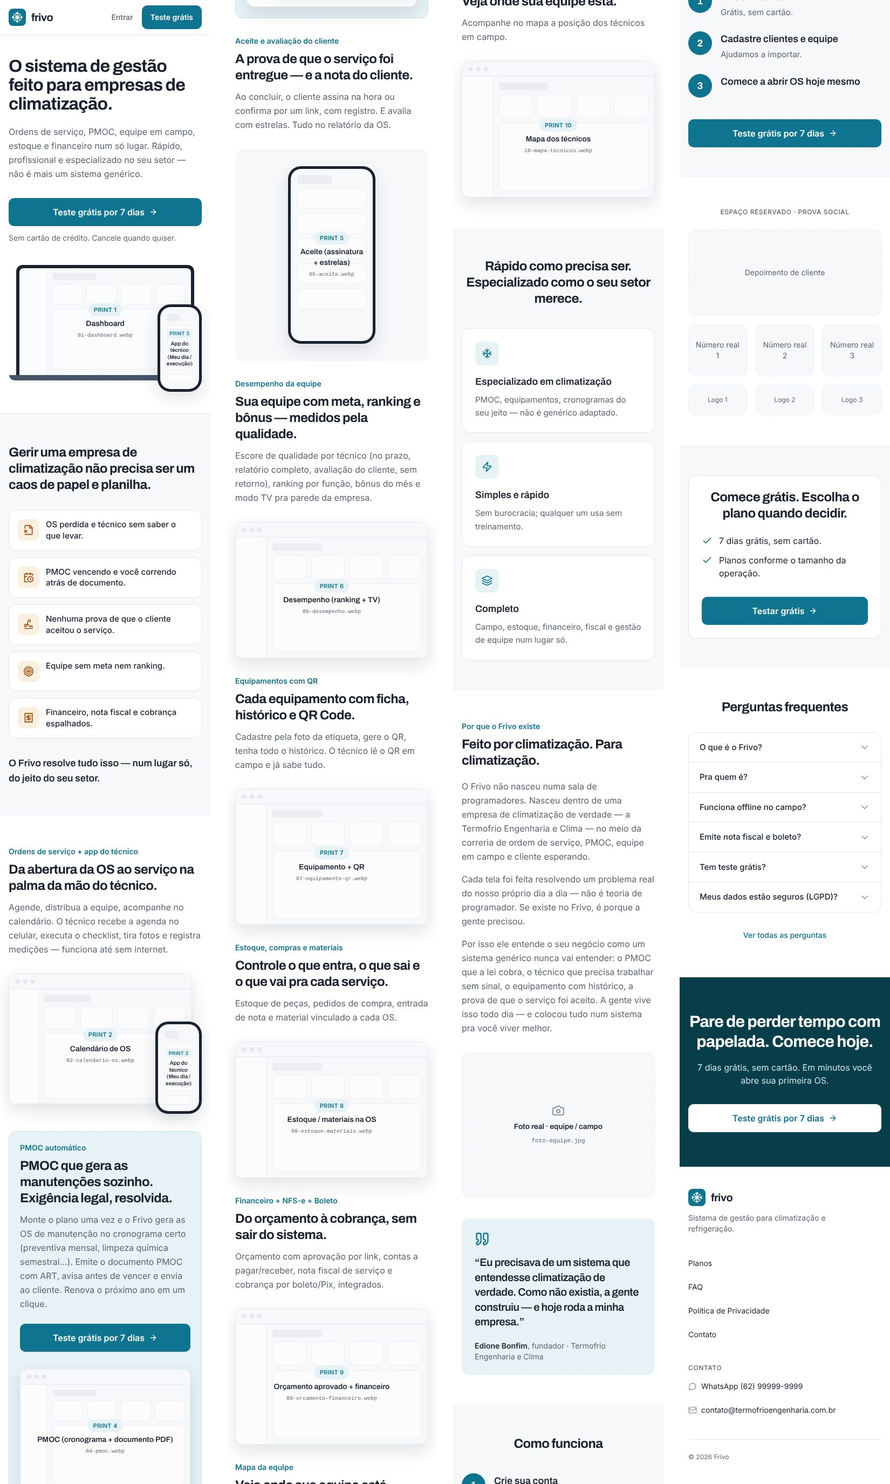
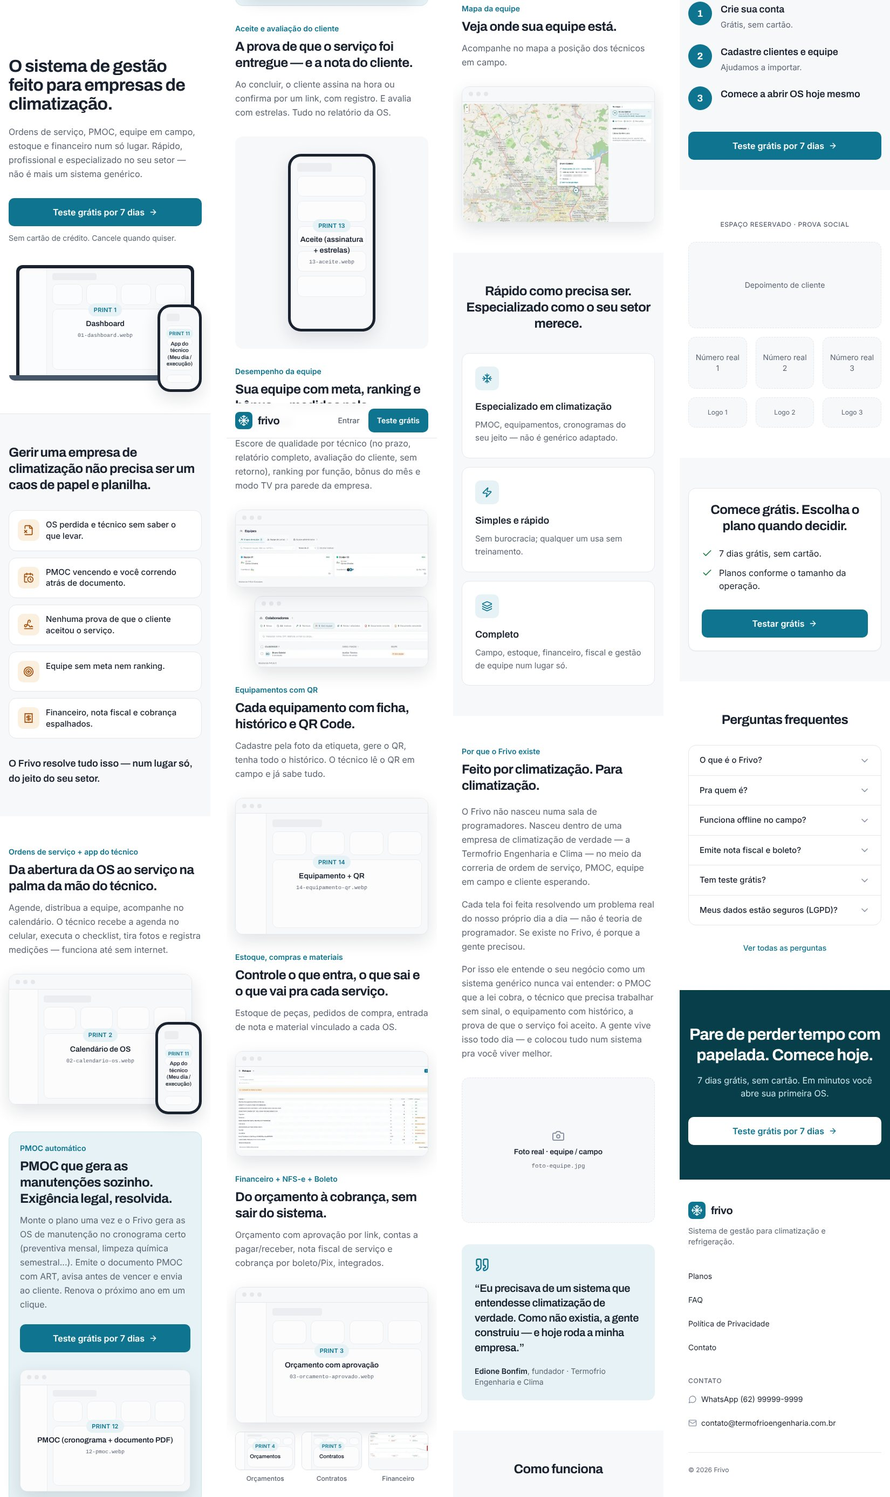
Home de vendas: telas reais do sistema (06 a 10) e nova numeração dos prints
- prints renumerados na ordem enviada: 01 dashboard, 02 calendário,
  03 orçamento com aprovação, 04 orçamentos, 05 contratos, 06 estoque,
  07 mapa, 08 equipes, 09 colaboradores, 10 financeiro; as telas do
  briefing ainda não enviadas viram 11 a 14 (app do técnico, PMOC,
  aceite, equipamento + QR)
- entram como imagem real: estoque, mapa, equipes, colaboradores e
  financeiro; 01 a 05 seguem como espaço reservado até o arquivo chegar
- 03 (orçamento aprovado) e 07 (mapa) com o print em destaque: coluna
  larga no bloco
- financeiro: 03 como print principal e 04, 05 e 10 em miniaturas com
  legenda; desempenho da equipe: 08 e 09, um abaixo do outro
- telas recortadas só na área de conteúdo (sem barra lateral e sem a
  barra do topo com o e-mail do usuário); 09 sem a coluna Contato e 07
  com a coordenada do técnico borrada
- moldura segue a proporção do recorte (proporcao no print)

Claude-Session: https://claude.ai/code/session_01HN9DuseGQK6JpnXFJzsGDY

diff --git a/components/marketing/conteudo.ts b/components/marketing/conteudo.ts
@@ -43,7 +43,7 @@ export const SEO = {
 
 export type FormatoPrint = "desktop" | "celular";
 export interface Print {
-  /** Número na lista do briefing (1 a 10). */
+  /** Número do print (1 a 10: telas enviadas; 11 em diante: ainda por enviar). */
   n: number;
   /** Nome do arquivo em public/marketing/prints, SEM extensão (.webp, .avif, .png ou .jpg). */
   arquivo: string;
@@ -52,19 +52,27 @@ export interface Print {
   formato: FormatoPrint;
   /** Texto alternativo da imagem real. */
   alt: string;
+  /** Proporção "largura/altura" da imagem real, quando ela é um recorte da tela (sem isso: 16:10 ou 9:19). */
+  proporcao?: string;
 }
 
+// Os 10 primeiros são as telas reais enviadas (numeração do dono do produto); 11 a 14 são telas do
+// briefing que ainda não chegaram e seguem como espaço reservado.
 export const PRINTS = {
   dashboard: { n: 1, arquivo: "01-dashboard", tela: "Dashboard", formato: "desktop", alt: "Painel do Frivo com os indicadores do dia" },
   calendario: { n: 2, arquivo: "02-calendario-os", tela: "Calendário de OS", formato: "desktop", alt: "Calendário de ordens de serviço com a equipe distribuída" },
-  appTecnico: { n: 3, arquivo: "03-app-tecnico", tela: "App do técnico (Meu dia / execução)", formato: "celular", alt: "App do técnico com a agenda do dia" },
-  pmoc: { n: 4, arquivo: "04-pmoc", tela: "PMOC (cronograma + documento PDF)", formato: "desktop", alt: "Cronograma do PMOC e o documento gerado" },
-  aceite: { n: 5, arquivo: "05-aceite", tela: "Aceite (assinatura + estrelas)", formato: "celular", alt: "Aceite do cliente com assinatura e avaliação em estrelas" },
-  desempenho: { n: 6, arquivo: "06-desempenho", tela: "Desempenho (ranking + TV)", formato: "desktop", alt: "Ranking de desempenho da equipe" },
-  equipamento: { n: 7, arquivo: "07-equipamento-qr", tela: "Equipamento + QR", formato: "desktop", alt: "Ficha do equipamento com histórico e QR Code" },
-  estoque: { n: 8, arquivo: "08-estoque-materiais", tela: "Estoque / materiais na OS", formato: "desktop", alt: "Materiais do estoque vinculados à ordem de serviço" },
-  financeiro: { n: 9, arquivo: "09-orcamento-financeiro", tela: "Orçamento aprovado + financeiro", formato: "desktop", alt: "Orçamento aprovado e o financeiro" },
-  mapa: { n: 10, arquivo: "10-mapa-tecnicos", tela: "Mapa dos técnicos", formato: "desktop", alt: "Mapa com a posição dos técnicos em campo" },
+  orcamentoAprovado: { n: 3, arquivo: "03-orcamento-aprovado", tela: "Orçamento com aprovação", formato: "desktop", alt: "Orçamento aprovado pelo cliente por link, com a linha do tempo da proposta" },
+  orcamentos: { n: 4, arquivo: "04-orcamentos", tela: "Orçamentos", formato: "desktop", alt: "Lista de orçamentos com status e totais do período" },
+  contratos: { n: 5, arquivo: "05-contratos", tela: "Contratos", formato: "desktop", alt: "Lista de contratos com valor da cobrança e próxima OS" },
+  estoque: { n: 6, arquivo: "06-estoque", tela: "Estoque", formato: "desktop", alt: "Saldos do estoque com aviso de produtos no mínimo", proporcao: "1382/640" },
+  mapa: { n: 7, arquivo: "07-mapa-tecnicos", tela: "Mapa dos técnicos", formato: "desktop", alt: "Mapa com a posição do técnico em campo e a OS em execução" },
+  equipes: { n: 8, arquivo: "08-equipes", tela: "Equipes", formato: "desktop", alt: "Equipes de campo com líder e membros", proporcao: "1000/320" },
+  colaboradores: { n: 9, arquivo: "09-colaboradores", tela: "Colaboradores", formato: "desktop", alt: "Cadastro de colaboradores com cargo, equipe e status", proporcao: "800/256" },
+  financeiro: { n: 10, arquivo: "10-financeiro", tela: "Financeiro", formato: "desktop", alt: "Dashboard financeiro com contas a receber, a pagar e saldo previsto" },
+  appTecnico: { n: 11, arquivo: "11-app-tecnico", tela: "App do técnico (Meu dia / execução)", formato: "celular", alt: "App do técnico com a agenda do dia" },
+  pmoc: { n: 12, arquivo: "12-pmoc", tela: "PMOC (cronograma + documento PDF)", formato: "desktop", alt: "Cronograma do PMOC e o documento gerado" },
+  aceite: { n: 13, arquivo: "13-aceite", tela: "Aceite (assinatura + estrelas)", formato: "celular", alt: "Aceite do cliente com assinatura e avaliação em estrelas" },
+  equipamento: { n: 14, arquivo: "14-equipamento-qr", tela: "Equipamento + QR", formato: "desktop", alt: "Ficha do equipamento com histórico e QR Code" },
 } as const satisfies Record<string, Print>;
 
 // ── 1. Hero ─────────────────────────────────────────────────────────────────────────────────────
@@ -99,6 +107,13 @@ export interface Modulo {
   print: Print;
   /** Segundo print, de celular, sobreposto ao principal. */
   printCelular?: Print;
+  /** Segunda tela de computador, logo abaixo do print principal. */
+  printAbaixo?: Print;
+  /** Mais telas do mesmo assunto, em miniaturas com legenda abaixo do print principal. */
+  extras?: Print[];
+  /** O print ganha a coluna larga do bloco (as telas que mais vendem). */
+  printEmDestaque?: boolean;
+  /** O bloco inteiro em destaque (fundo do acento + CTA). */
   destaque?: boolean;
 }
 
@@ -135,7 +150,8 @@ export const MODULOS: Modulo[] = [
     titulo: "Sua equipe com meta, ranking e bônus — medidos pela qualidade.",
     texto:
       "Escore de qualidade por técnico (no prazo, relatório completo, avaliação do cliente, sem retorno), ranking por função, bônus do mês e modo TV pra parede da empresa.",
-    print: PRINTS.desempenho,
+    print: PRINTS.equipes,
+    printAbaixo: PRINTS.colaboradores,
   },
   {
     id: "equipamentos",
@@ -158,7 +174,9 @@ export const MODULOS: Modulo[] = [
     titulo: "Do orçamento à cobrança, sem sair do sistema.",
     texto:
       "Orçamento com aprovação por link, contas a pagar/receber, nota fiscal de serviço e cobrança por boleto/Pix, integrados.",
-    print: PRINTS.financeiro,
+    print: PRINTS.orcamentoAprovado,
+    printEmDestaque: true,
+    extras: [PRINTS.orcamentos, PRINTS.contratos, PRINTS.financeiro],
   },
   {
     id: "mapa",
@@ -166,6 +184,7 @@ export const MODULOS: Modulo[] = [
     titulo: "Veja onde sua equipe está.",
     texto: "Acompanhe no mapa a posição dos técnicos em campo.",
     print: PRINTS.mapa,
+    printEmDestaque: true,
   },
 ];
 

diff --git a/tests/unit/marketing-home.test.ts b/tests/unit/marketing-home.test.ts
@@ -1,7 +1,7 @@
 /**
  * Home de vendas ("/"): a página renderizada de verdade (react-dom/server) e o middleware real.
- * Prova: estrutura do briefing na ordem, um CTA primário repetido com um destino só, os 10 prints
- * como espaços reservados nomeados (e a troca pela imagem quando o arquivo existe), a seção da origem
+ * Prova: estrutura do briefing na ordem, um CTA primário repetido com um destino só, os prints no
+ * bloco certo (imagem real ou espaço reservado nomeado; 03 e 07 em destaque), a seção da origem
  * com o espaço da foto, nenhuma prova social inventada, SEO básico e o acesso (anônimo vê a home; o resto do sistema segue fechado).
  */
 import { describe, expect, it } from "vitest";
@@ -54,17 +54,57 @@ describe("home de vendas: página", () => {
     expect(html).toMatch(/<header class="sticky top-0[^"]*"/);
   });
 
-  it("os 10 prints da lista são espaços reservados nomeados", () => {
+  it("prints: os 10 enviados na numeração combinada, mais os que faltam; cada lugar mostra a imagem real ou o espaço reservado nomeado", () => {
     const lista = Object.values(PRINTS);
-    expect(lista.map((p) => p.n)).toEqual([1, 2, 3, 4, 5, 6, 7, 8, 9, 10]);
+    expect(lista.map((p) => `${p.n} ${p.arquivo}`)).toEqual([
+      "1 01-dashboard", "2 02-calendario-os", "3 03-orcamento-aprovado", "4 04-orcamentos", "5 05-contratos",
+      "6 06-estoque", "7 07-mapa-tecnicos", "8 08-equipes", "9 09-colaboradores", "10 10-financeiro",
+      "11 11-app-tecnico", "12 12-pmoc", "13 13-aceite", "14 14-equipamento-qr",
+    ]);
     expect(new Set(todos(/data-print="([^"]+)"/g))).toEqual(new Set(lista.map((p) => p.arquivo)));
     for (const p of lista) {
-      expect(texto, p.arquivo).toContain(`Print ${p.n} ${p.tela}`);
-      expect(texto).toContain(`${p.arquivo}.webp`);
+      if (localizarPrint(p.arquivo)) {
+        expect(html, p.arquivo).toContain(`alt="${p.alt}"`);
+        expect(texto, p.arquivo).not.toContain(`${p.arquivo}.webp`);
+      } else {
+        expect(texto, p.arquivo).toContain(`Print ${p.n} ${p.tela}`);
+        expect(texto).toContain(`${p.arquivo}.webp`);
+      }
     }
     // o LEIA-ME da pasta lista os mesmos nomes
     const leiaMe = readFileSync("public/marketing/prints/LEIA-ME.md", "utf8");
     for (const p of lista) expect(leiaMe, p.arquivo).toContain(`\`${p.arquivo}\``);
+  });
+
+  it("as telas reais já entregues entram como imagem otimizada (sem espaço reservado)", () => {
+    for (const arquivo of ["06-estoque", "07-mapa-tecnicos", "08-equipes", "09-colaboradores", "10-financeiro"]) {
+      expect(localizarPrint(arquivo), arquivo).toBe(`/marketing/prints/${arquivo}.webp`);
+      const marca = new RegExp(`<div[^>]*data-print="${arquivo}"[^>]*>`).exec(html)![0];
+      expect(marca, arquivo).not.toContain("data-print-pendente");
+    }
+    expect(html).toMatch(/<img[^>]*alt="Mapa com a posição do técnico em campo e a OS em execução"[^>]*srcSet="[^"]*%2Fmarketing%2Fprints%2F07-mapa-tecnicos\.webp/);
+  });
+
+  it("cada tela no bloco do seu assunto; orçamento aprovado (03) e mapa (07) com o print em destaque", () => {
+    const bloco = (id: string) => { const i = html.indexOf(`data-modulo="${id}"`); const f = html.indexOf("</article>", i); return html.slice(html.lastIndexOf("<article", i), f); };
+    const prints = (id: string) => [...bloco(id).matchAll(/data-print="([^"]+)"/g)].map((m) => m[1]);
+    expect(prints("ordens-de-servico")).toEqual(["02-calendario-os", "11-app-tecnico"]);
+    expect(prints("pmoc")).toEqual(["12-pmoc"]);
+    expect(prints("aceite")).toEqual(["13-aceite"]);
+    expect(prints("desempenho")).toEqual(["08-equipes", "09-colaboradores"]);
+    expect(prints("equipamentos")).toEqual(["14-equipamento-qr"]);
+    expect(prints("estoque")).toEqual(["06-estoque"]);
+    expect(prints("financeiro")).toEqual(["03-orcamento-aprovado", "04-orcamentos", "05-contratos", "10-financeiro"]);
+    expect(prints("mapa")).toEqual(["07-mapa-tecnicos"]);
+    // hero: dashboard no notebook
+    expect([...html.slice(html.indexOf('data-secao="hero"'), html.indexOf('data-secao="dor"')).matchAll(/data-print="([^"]+)"/g)].map((m) => m[1])).toEqual(["01-dashboard", "11-app-tecnico"]);
+    // destaque: só os blocos do 03 e do 07 têm a coluna larga do print
+    expect(MODULOS.filter((m) => m.printEmDestaque).map((m) => m.print.arquivo)).toEqual(["03-orcamento-aprovado", "07-mapa-tecnicos"]);
+    expect(html.match(/data-print-em-destaque/g)).toHaveLength(2);
+    expect(bloco("financeiro")).toContain("lg:grid-cols-[1fr_1.35fr]");
+    expect(bloco("mapa")).toContain("lg:grid-cols-[1.35fr_1fr]");
+    // as telas extras do financeiro vêm em miniaturas com legenda
+    expect([...bloco("financeiro").matchAll(/data-miniatura="([^"]+)"/g)].map((m) => m[1])).toEqual(["04-orcamentos", "05-contratos", "10-financeiro"]);
   });
 
   it("o arquivo com o nome certo na pasta troca o espaço reservado pela imagem", () => {

diff --git a/app/(publico)/(marketing)/page.tsx b/app/(publico)/(marketing)/page.tsx
@@ -7,7 +7,7 @@ import {
 import { Cabecalho } from "@/components/marketing/cabecalho";
 import { Rodape } from "@/components/marketing/rodape";
 import { BotaoTeste } from "@/components/marketing/botao-teste";
-import { Celular, Foto, Janela, Notebook } from "@/components/marketing/print";
+import { Celular, Foto, Janela, Miniatura, Notebook } from "@/components/marketing/print";
 import { FaqLista } from "@/components/publico/faq-lista";
 import {
   COMO_FUNCIONA, CTA, CTA_FINAL, DOR, FAQ, HERO, MODULOS, type Modulo, ORIGEM, PLANOS, POR_QUE, PRINTS, PROVA_SOCIAL, PUBLICADA, SEO, URL_SITE,
@@ -38,6 +38,7 @@ const CAIXA = "mx-auto max-w-6xl px-4 sm:px-6";
 const TITULO_SECAO = "font-display text-2xl font-bold leading-tight tracking-tight text-ink sm:text-3xl";
 // Metade da largura no computador, a largura toda no celular
 const SIZES_METADE = "(min-width: 1024px) 560px, 100vw";
+const SIZES_LARGO = "(min-width: 1024px) 640px, 100vw";
 
 export default function HomeDeVendas() {
   return (
@@ -118,15 +119,22 @@ function Modulos() {
   );
 }
 
-/** Um recurso: texto de um lado, print do outro; `invertido` alterna os lados (zigue-zague). */
+/**
+ * Um recurso: texto de um lado, print do outro; `invertido` alterna os lados (zigue-zague). Com
+ * `printEmDestaque`, a coluna do print fica mais larga que a do texto.
+ */
 function BlocoModulo({ modulo, invertido }: { modulo: Modulo; invertido: boolean }) {
-  const { print, printCelular } = modulo;
+  const { print, printCelular, printAbaixo, extras, printEmDestaque } = modulo;
+  const colunas = !printEmDestaque ? "lg:grid-cols-2" : invertido ? "lg:grid-cols-[1.35fr_1fr]" : "lg:grid-cols-[1fr_1.35fr]";
+  const sizes = printEmDestaque ? SIZES_LARGO : SIZES_METADE;
   return (
     <article
       id={modulo.id}
       data-modulo={modulo.id}
+      {...(printEmDestaque ? { "data-print-em-destaque": true } : {})}
       className={cn(
-        "my-8 grid scroll-mt-24 items-center gap-8 sm:my-12 lg:grid-cols-2 lg:gap-14",
+        "my-8 grid scroll-mt-24 items-center gap-8 sm:my-12 lg:gap-14",
+        colunas,
         modulo.destaque && "rounded-card border border-primary-100 bg-acento-claro p-5 sm:p-8 lg:p-10",
       )}
     >
@@ -142,9 +150,17 @@ function BlocoModulo({ modulo, invertido }: { modulo: Modulo; invertido: boolean
           <Celular print={print} sizes="230px" className="w-[52%] max-w-[230px]" />
         </div>
       ) : (
-        <div className={cn("relative", printCelular && "pb-[5%] pr-[5%]")}>
-          <Janela print={print} sizes={SIZES_METADE} />
-          {printCelular && <Celular print={printCelular} sizes="(min-width: 1024px) 130px, 24vw" compacto className="absolute bottom-0 right-0 w-[24%]" />}
+        <div>
+          <div className={cn("relative", printCelular && "pb-[5%] pr-[5%]")}>
+            <Janela print={print} sizes={sizes} />
+            {printCelular && <Celular print={printCelular} sizes="(min-width: 1024px) 130px, 24vw" compacto className="absolute bottom-0 right-0 w-[24%]" />}
+          </div>
+          {printAbaixo && <Janela print={printAbaixo} sizes={sizes} className="ml-[10%] mt-4" />}
+          {extras && (
+            <div className="mt-4 grid grid-cols-3 gap-3 sm:gap-4">
+              {extras.map((e) => <Miniatura key={e.arquivo} print={e} sizes="(min-width: 1024px) 200px, 30vw" />)}
+            </div>
+          )}
         </div>
       )}
     </article>

diff --git a/components/marketing/print.tsx b/components/marketing/print.tsx
@@ -26,11 +26,17 @@ export function localizarPrint(arquivo: string, pasta = PASTA_PRINTS): string | 
 
 const PROPORCAO = { desktop: "aspect-[16/10]", celular: "aspect-[9/19]" } as const;
 
-function Tela({ print, sizes, prioridade, compacto }: { print: Print; sizes: string; prioridade?: boolean; compacto?: boolean }) {
+function Tela({ print, sizes, prioridade, compacto, proporcaoFixa }: { print: Print; sizes: string; prioridade?: boolean; compacto?: boolean; proporcaoFixa?: boolean }) {
   const src = localizarPrint(print.arquivo);
   if (src) {
+    // Recorte da tela: a moldura segue a proporção da imagem (nas miniaturas, todas iguais)
+    const recorte = print.proporcao && !proporcaoFixa ? print.proporcao : null;
     return (
-      <div className={cn("relative w-full overflow-hidden bg-white", PROPORCAO[print.formato])} data-print={print.arquivo}>
+      <div
+        className={cn("relative w-full overflow-hidden bg-white", !recorte && PROPORCAO[print.formato])}
+        style={recorte ? { aspectRatio: recorte } : undefined}
+        data-print={print.arquivo}
+      >
         <Image src={src} alt={print.alt} fill sizes={sizes} priority={prioridade} className="object-cover object-top" />
       </div>
     );
@@ -125,6 +131,18 @@ export function Celular({ print, sizes, prioridade, compacto, className }: { pri
         <Tela print={print} sizes={sizes} prioridade={prioridade} compacto={compacto} />
       </div>
     </div>
+  );
+}
+
+/** Miniatura com legenda: as telas extras de um módulo, abaixo do print principal. */
+export function Miniatura({ print, sizes }: { print: Print; sizes: string }) {
+  return (
+    <figure data-miniatura={print.arquivo}>
+      <div className="overflow-hidden rounded-lg border border-surface-border bg-white shadow-card">
+        <Tela print={print} sizes={sizes} compacto proporcaoFixa />
+      </div>
+      <figcaption className="mt-2 text-center text-xs font-medium text-ink-muted">{print.tela}</figcaption>
+    </figure>
   );
 }
 

diff --git a/docs/marketing-home.md b/docs/marketing-home.md
@@ -35,11 +35,31 @@ existe · como funciona · prova social · planos · FAQ · CTA final · rodapé
 foto real ao lado e o depoimento do fundador em destaque. O depoimento é do próprio fundador — fica nesta
 seção (`ORIGEM`), não na prova social, que continua reservada a clientes.
 
-## Trocar os prints
+## Prints do sistema
 
-Os 10 prints da lista são **espaços reservados nomeados**. Para trocar, coloque o arquivo com o nome certo em
-`public/marketing/prints/` (nomes, tamanhos e onde cada um aparece no `LEIA-ME.md` da pasta). A página troca
-sozinha, sem mexer em código.
+Cada lugar de print tem um **nome** (`PRINTS`, em `conteudo.ts`). Se o arquivo com esse nome está em
+`public/marketing/prints/`, entra a imagem real; se não, fica o espaço reservado nomeado. Colocar o arquivo
+na pasta troca o espaço sozinho, sem mexer em código. A tabela completa (nome, onde aparece, situação) está
+no `LEIA-ME.md` da pasta.
+
+| # | Tela | Onde aparece |
+|---|---|---|
+| 01 | Dashboard | Hero (notebook) |
+| 02 | Calendário de OS | Ordens de serviço |
+| 03 | Orçamento com aprovação | Financeiro — print principal, **em destaque** |
+| 04, 05, 10 | Orçamentos, Contratos, Financeiro | Financeiro — miniaturas com legenda |
+| 06 | Estoque | Estoque, compras e materiais |
+| 07 | Mapa dos técnicos | Mapa da equipe — **em destaque** |
+| 08, 09 | Equipes, Colaboradores | Desempenho da equipe (um abaixo do outro) |
+| 11 a 14 | App do técnico, PMOC, Aceite, Equipamento + QR | Seguem como espaço reservado (telas não enviadas) |
+
+"Em destaque" = o print ocupa a coluna larga do bloco (`printEmDestaque`). Um recorte fora de 16:10 declara a
+`proporcao` no print, e a moldura segue a imagem.
+
+**Tratamento das telas reais.** Entram só com a área da tela: sem a barra lateral e sem a barra do topo, que
+mostra o e-mail do usuário. O 09 saiu sem a coluna Contato (telefone e e-mail do colaborador) e o 07 teve a
+coordenada do técnico borrada. Nomes de clientes, de colaboradores e valores que aparecem nas telas ficam
+visíveis — conferir antes de publicar.
 
 ## Trocar a foto
 
@@ -50,7 +70,7 @@ A foto da seção "Por que o Frivo existe" segue o mesmo esquema: o arquivo `fot
 
 | O quê | Onde trocar |
 |---|---|
-| Os 10 prints | `public/marketing/prints/` |
+| Os prints que faltam (01 a 05 em arquivo; 11 a 14 por enviar) | `public/marketing/prints/` |
 | A foto da equipe / campo | `public/marketing/prints/foto-equipe` |
 | Prova social (depoimentos, números, logos) | `PROVA_SOCIAL` em `conteudo.ts` — nasce vazia; só entra dado real |
 | Destino do CTA | `LINK_TESTE_GRATIS` em `conteudo.ts` |
@@ -80,12 +100,13 @@ ficam fora do ratchet de tom, como as páginas institucionais.
 
 ## Testes
 
-`tests/unit/marketing-home.test.ts`: seções e módulos na ordem, um CTA com um destino só, os 10 espaços
-reservados nomeados (e a troca pela imagem), a seção da origem (texto, depoimento do fundador, espaço da
+`tests/unit/marketing-home.test.ts`: seções e módulos na ordem, um CTA com um destino só, cada print no bloco
+certo (imagem real ou espaço reservado nomeado; 03 e 07 em destaque), a seção da origem (texto, depoimento do fundador, espaço da
 foto), prova social vazia e sem número inventado, FAQ, rodapé com o contato, SEO, e o
 acesso pelo middleware real (anônimo abre a home; liberar a `/` não libera o sistema; logado vai ao painel).
 
 ## Prints
 
 `docs/prints/marketing-home/`: hero e página inteira no computador e no celular, a imagem de compartilhamento,
-a página provisória do teste grátis, a seção "Por que o Frivo existe" e o rodapé com o contato.
+a página provisória do teste grátis, a seção "Por que o Frivo existe", o rodapé com o contato e os blocos
+que já têm tela real.

diff --git a/public/marketing/prints/LEIA-ME.md b/public/marketing/prints/LEIA-ME.md
@@ -4,18 +4,28 @@ Coloque aqui as telas reais do sistema, **com exatamente estes nomes**. A págin
 reservado pela imagem sozinha, sem mexer em código. Extensões aceitas: `.webp` (preferida), `.avif`,
 `.png` ou `.jpg`.
 
-| # | Arquivo | Tela | Formato | Onde aparece |
-|---|---|---|---|---|
-| 1 | `01-dashboard` | Dashboard | computador | Hero (notebook) |
-| 2 | `02-calendario-os` | Calendário de OS | computador | Ordens de serviço |
-| 3 | `03-app-tecnico` | App do técnico (Meu dia / execução) | celular | Hero (celular) e Ordens de serviço |
-| 4 | `04-pmoc` | PMOC (cronograma + documento PDF) | computador | PMOC automático |
-| 5 | `05-aceite` | Aceite (assinatura + estrelas) | celular | Aceite e avaliação |
-| 6 | `06-desempenho` | Desempenho (ranking + TV) | computador | Desempenho da equipe |
-| 7 | `07-equipamento-qr` | Equipamento + QR | computador | Equipamentos com QR |
-| 8 | `08-estoque-materiais` | Estoque / materiais na OS | computador | Estoque, compras e materiais |
-| 9 | `09-orcamento-financeiro` | Orçamento aprovado + financeiro | computador | Financeiro + NFS-e + Boleto |
-| 10 | `10-mapa-tecnicos` | Mapa dos técnicos | computador | Mapa da equipe |
+| # | Arquivo | Tela | Formato | Onde aparece | Situação |
+|---|---|---|---|---|---|
+| 1 | `01-dashboard` | Dashboard | computador | Hero (notebook) | falta o arquivo |
+| 2 | `02-calendario-os` | Calendário de OS | computador | Ordens de serviço | falta o arquivo |
+| 3 | `03-orcamento-aprovado` | Orçamento com aprovação | computador | Financeiro — print principal, em destaque | falta o arquivo |
+| 4 | `04-orcamentos` | Orçamentos | computador | Financeiro — miniatura | falta o arquivo |
+| 5 | `05-contratos` | Contratos | computador | Financeiro — miniatura | falta o arquivo |
+| 6 | `06-estoque` | Estoque | computador | Estoque, compras e materiais | no lugar |
+| 7 | `07-mapa-tecnicos` | Mapa dos técnicos | computador | Mapa da equipe — em destaque | no lugar |
+| 8 | `08-equipes` | Equipes | computador | Desempenho da equipe — print principal | no lugar |
+| 9 | `09-colaboradores` | Colaboradores | computador | Desempenho da equipe — abaixo do principal | no lugar |
+| 10 | `10-financeiro` | Financeiro | computador | Financeiro — miniatura | no lugar |
+| 11 | `11-app-tecnico` | App do técnico (Meu dia / execução) | celular | Hero (celular) e Ordens de serviço | não enviado |
+| 12 | `12-pmoc` | PMOC (cronograma + documento PDF) | computador | PMOC automático | não enviado |
+| 13 | `13-aceite` | Aceite (assinatura + estrelas) | celular | Aceite e avaliação | não enviado |
+| 14 | `14-equipamento-qr` | Equipamento + QR | computador | Equipamentos com QR | não enviado |
+
+Os prints já no lugar foram recortados só na área da tela: sem a barra lateral e sem a barra do topo (que
+mostra o e-mail do usuário). Equipes (08), colaboradores (09) e estoque (06) ficaram só com a parte que tem
+conteúdo, para o texto aparecer maior; o 09 saiu sem a coluna Contato (telefone e e-mail do colaborador) e o
+mapa (07) teve a coordenada do técnico borrada. Um recorte fora de 16:10 precisa da `proporcao` do print em
+`components/marketing/conteudo.ts`.
 
 ## Foto (seção "Por que o Frivo existe")
 
@@ -36,4 +46,5 @@ cada print no tamanho da tela de quem abre, em WebP/AVIF.
 
 ## Antes de publicar
 
-Use dados de demonstração — sem nome, telefone, endereço ou valor de cliente real.
+Confira o que cada tela mostra: nome, telefone, e-mail, endereço e valores de clientes e de colaboradores
+ficam visíveis para qualquer visitante.
